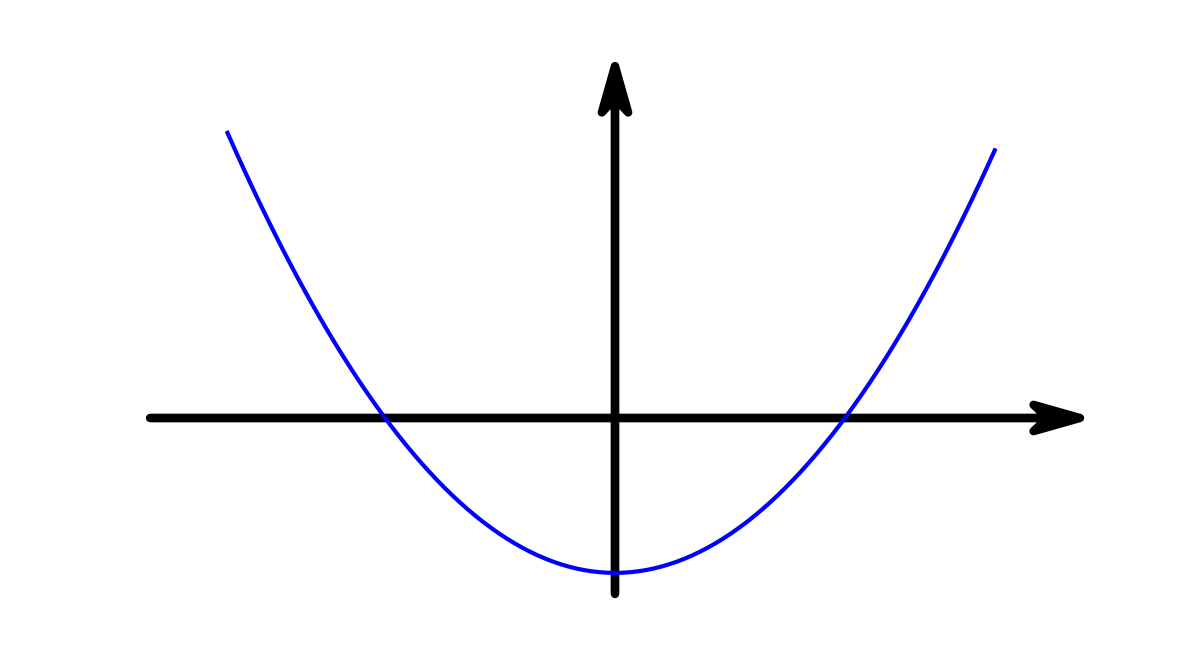
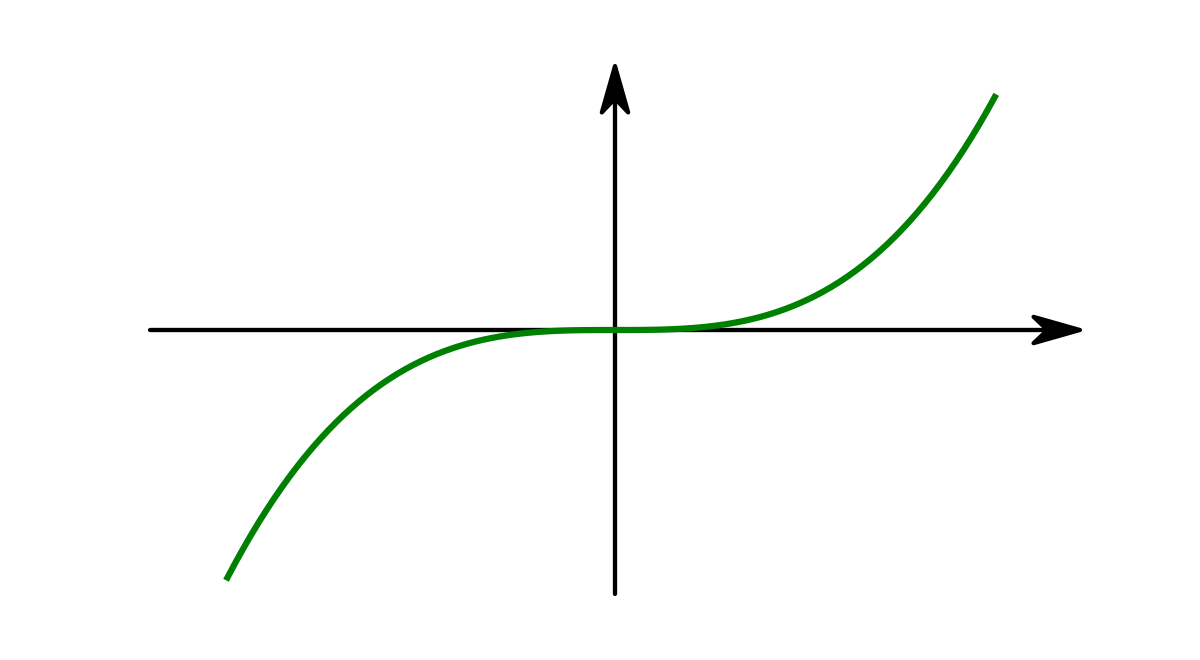
update example curve

diff --git a/axis_arrows.py b/axis_arrows.py
@@ -15,9 +15,9 @@ import pylab as pl
 
 fig = pl.figure()
 ax = fig.add_subplot(111)
-`
+
 x = pl.arange(-5,5,0.1)
-ax.plot(x, x**2-8.8)
+ax.plot(x, 1.5*x**3, 'g', lw=1.5)
 
 xmin, xmax = ax.get_xlim() 
 ymin, ymax = ax.get_ylim()
